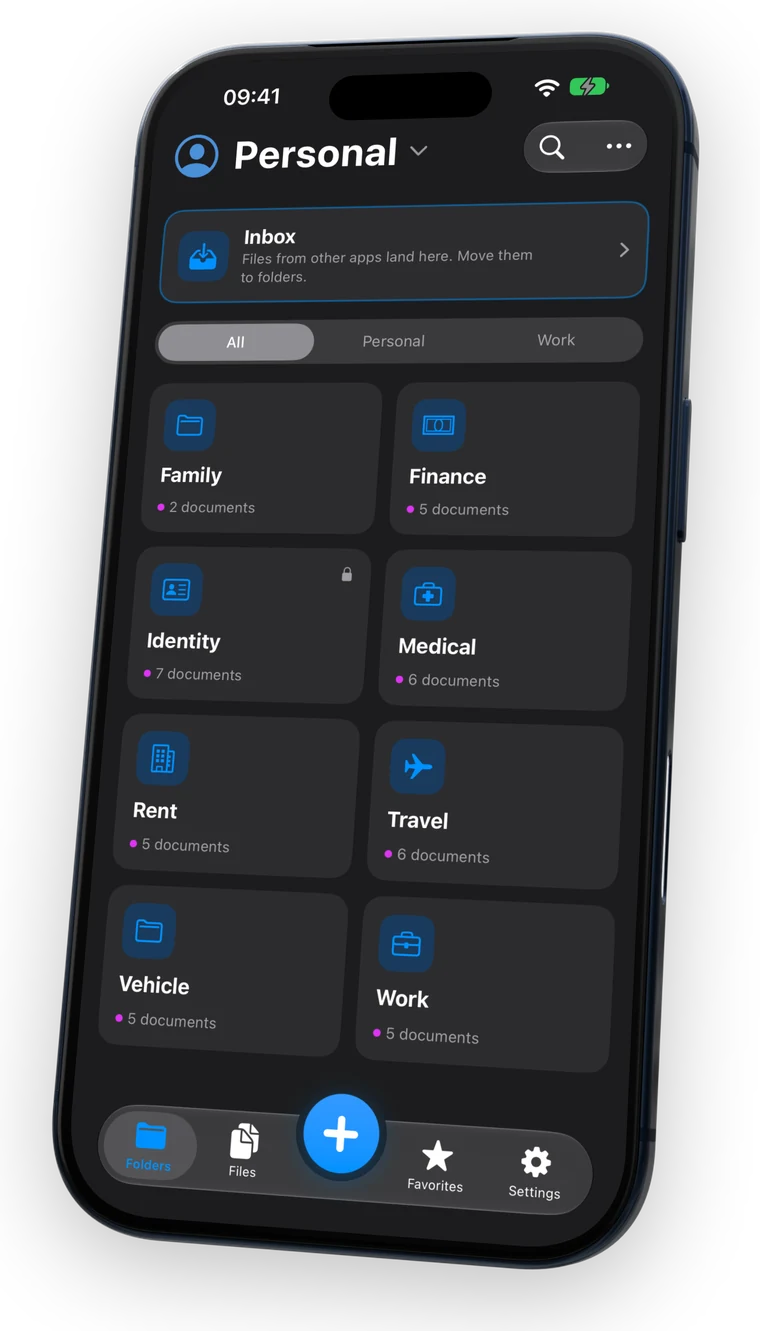
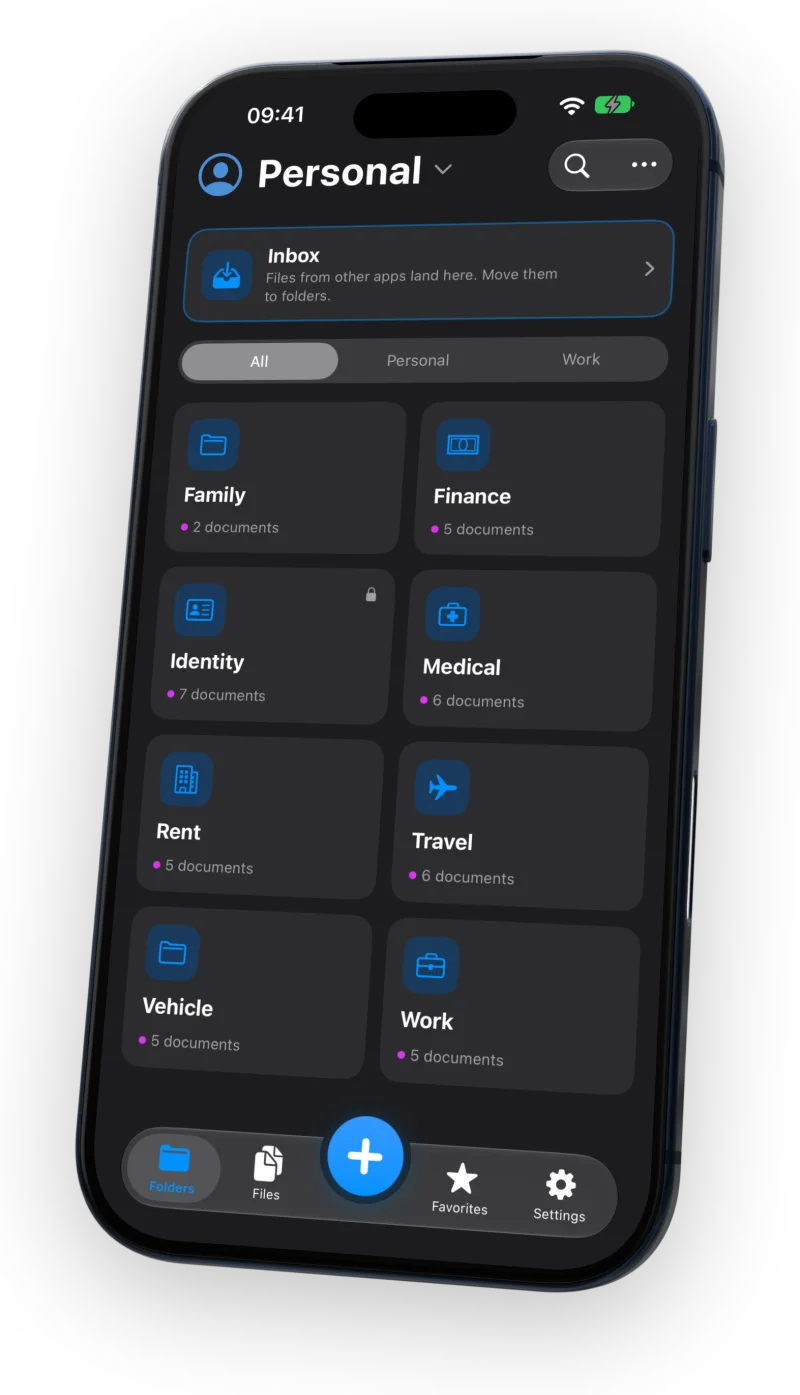
Use the new phone mockups on the first screen
Framely's export of the hero phone now has room for its shadow: the page grew around a phone of
the same size, where before the shadow ran into the page's edge and showed cut off on the site.
Both themes are cropped to what is visible, shadow included, at 800 x 1395.

Changed region(s): [[0.0605, 0.0, 0.9382, 0.9549], [0.4539, 0.4005, 0.4842, 0.4313]]

diff --git a/index.ru.html b/index.ru.html
@@ -84,7 +84,7 @@
         <div class="hero-shot">
           <picture>
             <source srcset="assets/hero-phone-dark.webp" media="(prefers-color-scheme: dark)">
-            <img class="hero-phone" src="assets/hero-phone-light.webp" width="760" height="1330" alt="Главный экран Docsly: профиль, входящие и&nbsp;папки с&nbsp;документами" fetchpriority="high">
+            <img class="hero-phone" src="assets/hero-phone-light.webp" width="800" height="1395" alt="Главный экран Docsly: профиль, входящие и&nbsp;папки с&nbsp;документами" fetchpriority="high">
           </picture>
         </div>
       </div>

diff --git a/index.html b/index.html
@@ -84,7 +84,7 @@
         <div class="hero-shot">
           <picture>
             <source srcset="assets/hero-phone-dark.webp" media="(prefers-color-scheme: dark)">
-            <img class="hero-phone" src="assets/hero-phone-light.webp" width="760" height="1330" alt="Docsly home screen: profile, inbox and document folders" fetchpriority="high">
+            <img class="hero-phone" src="assets/hero-phone-light.webp" width="800" height="1395" alt="Docsly home screen: profile, inbox and document folders" fetchpriority="high">
           </picture>
         </div>
       </div>
